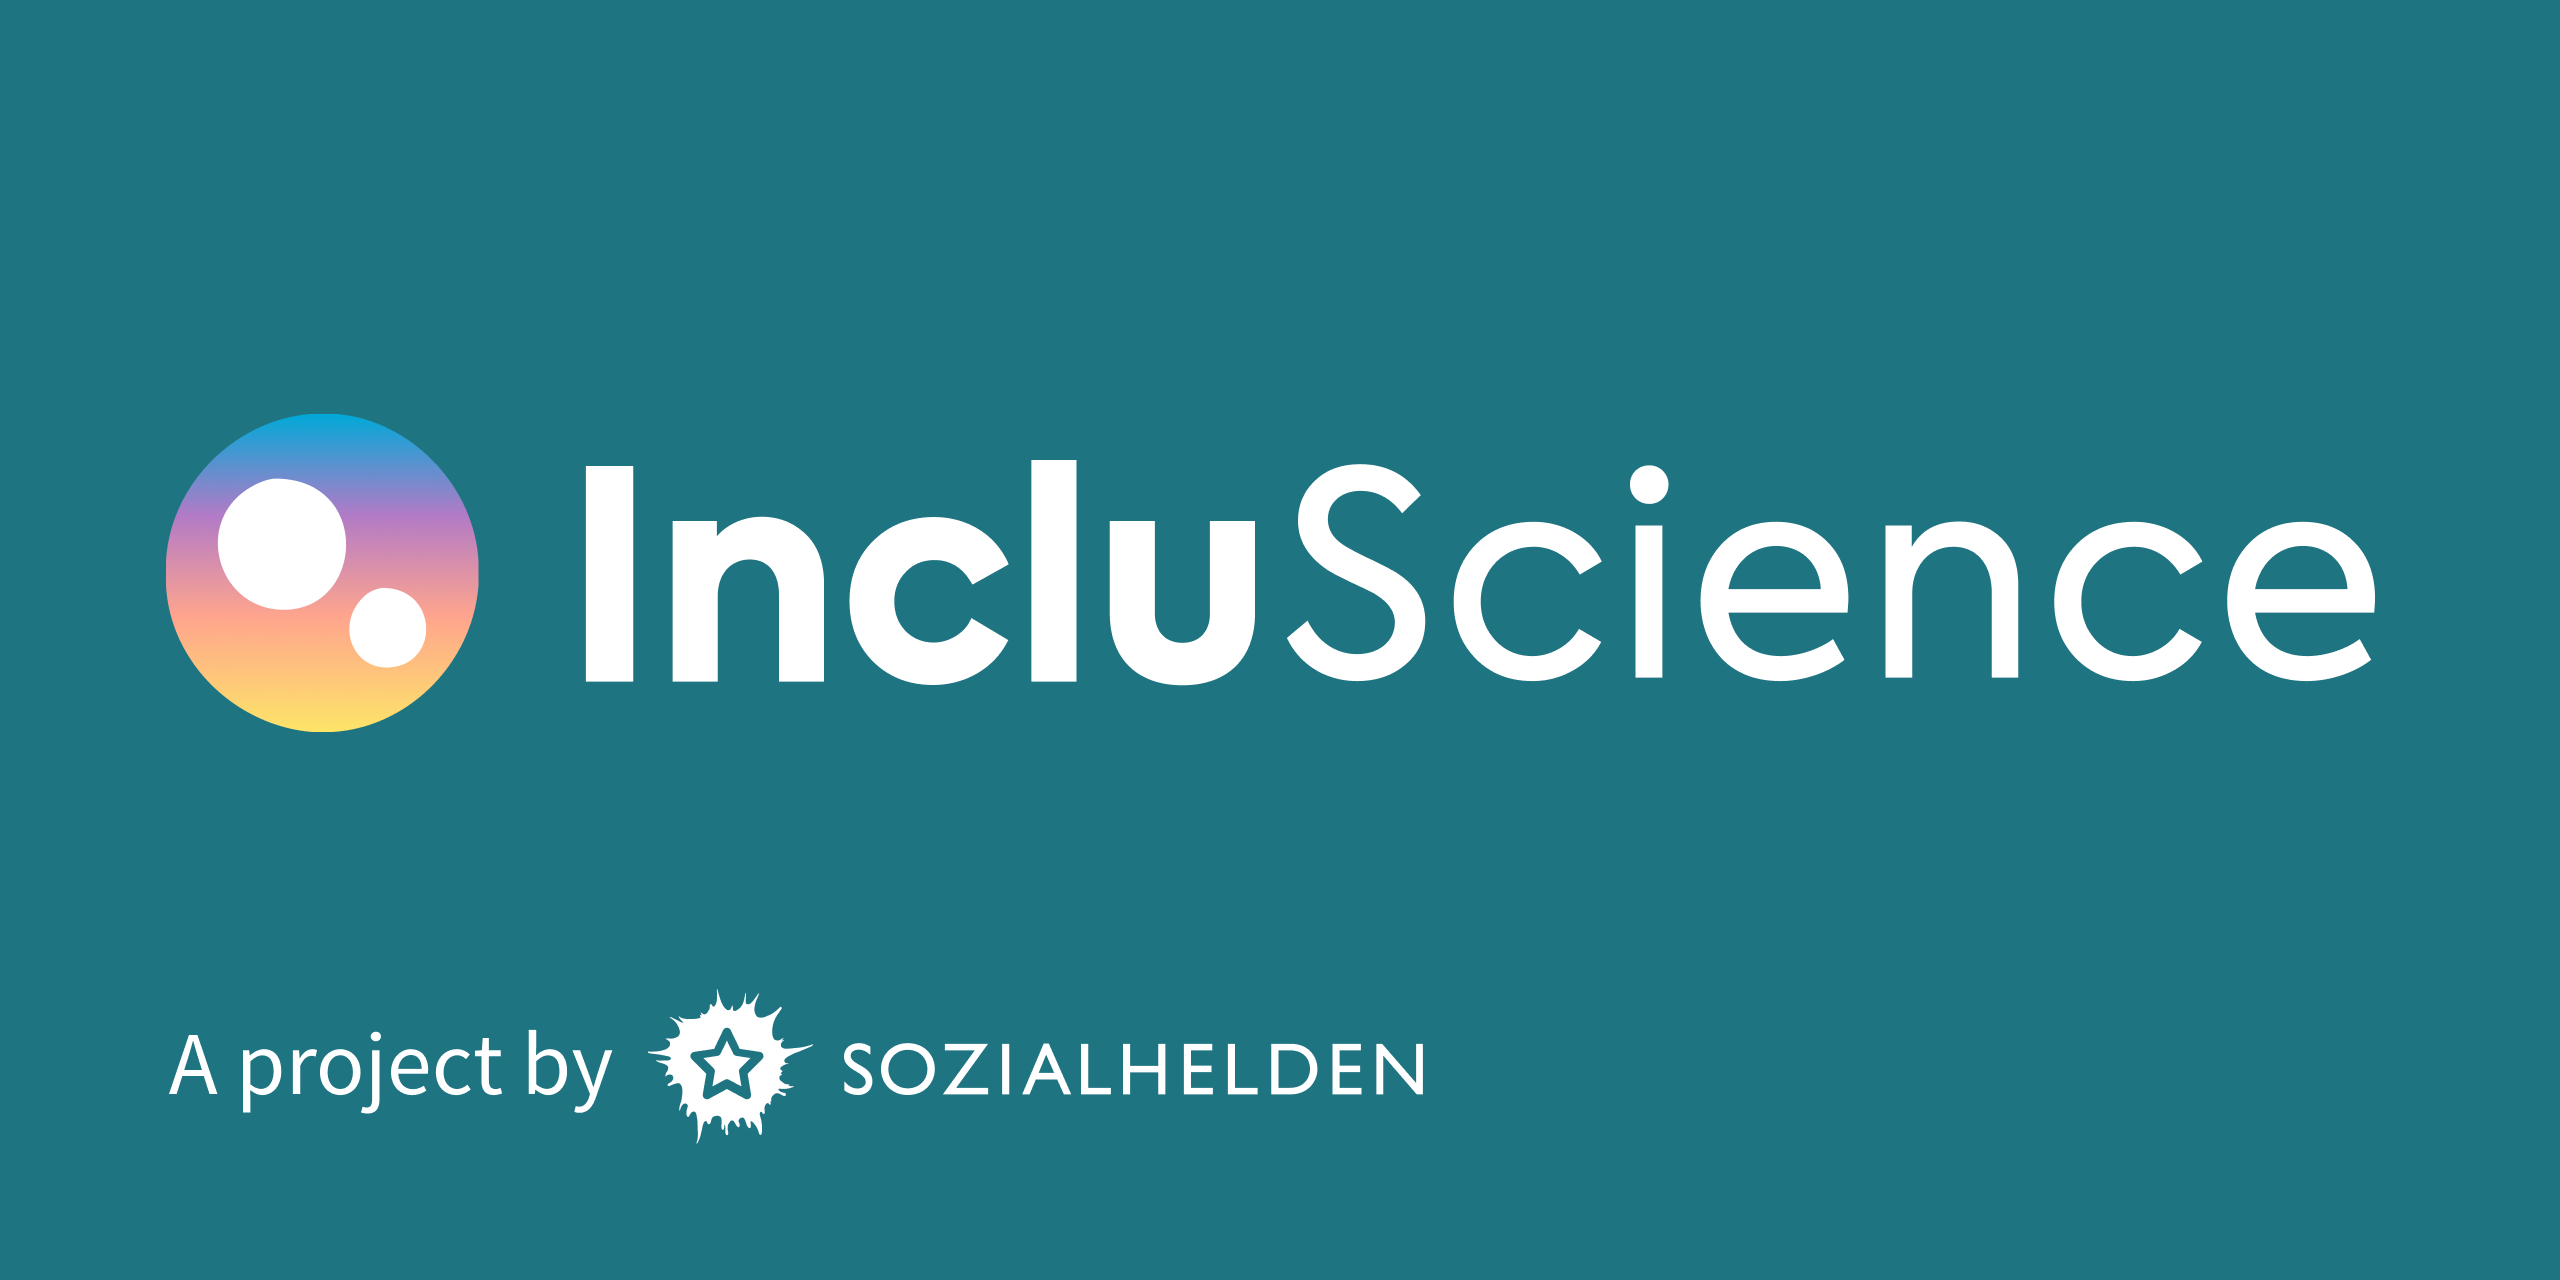
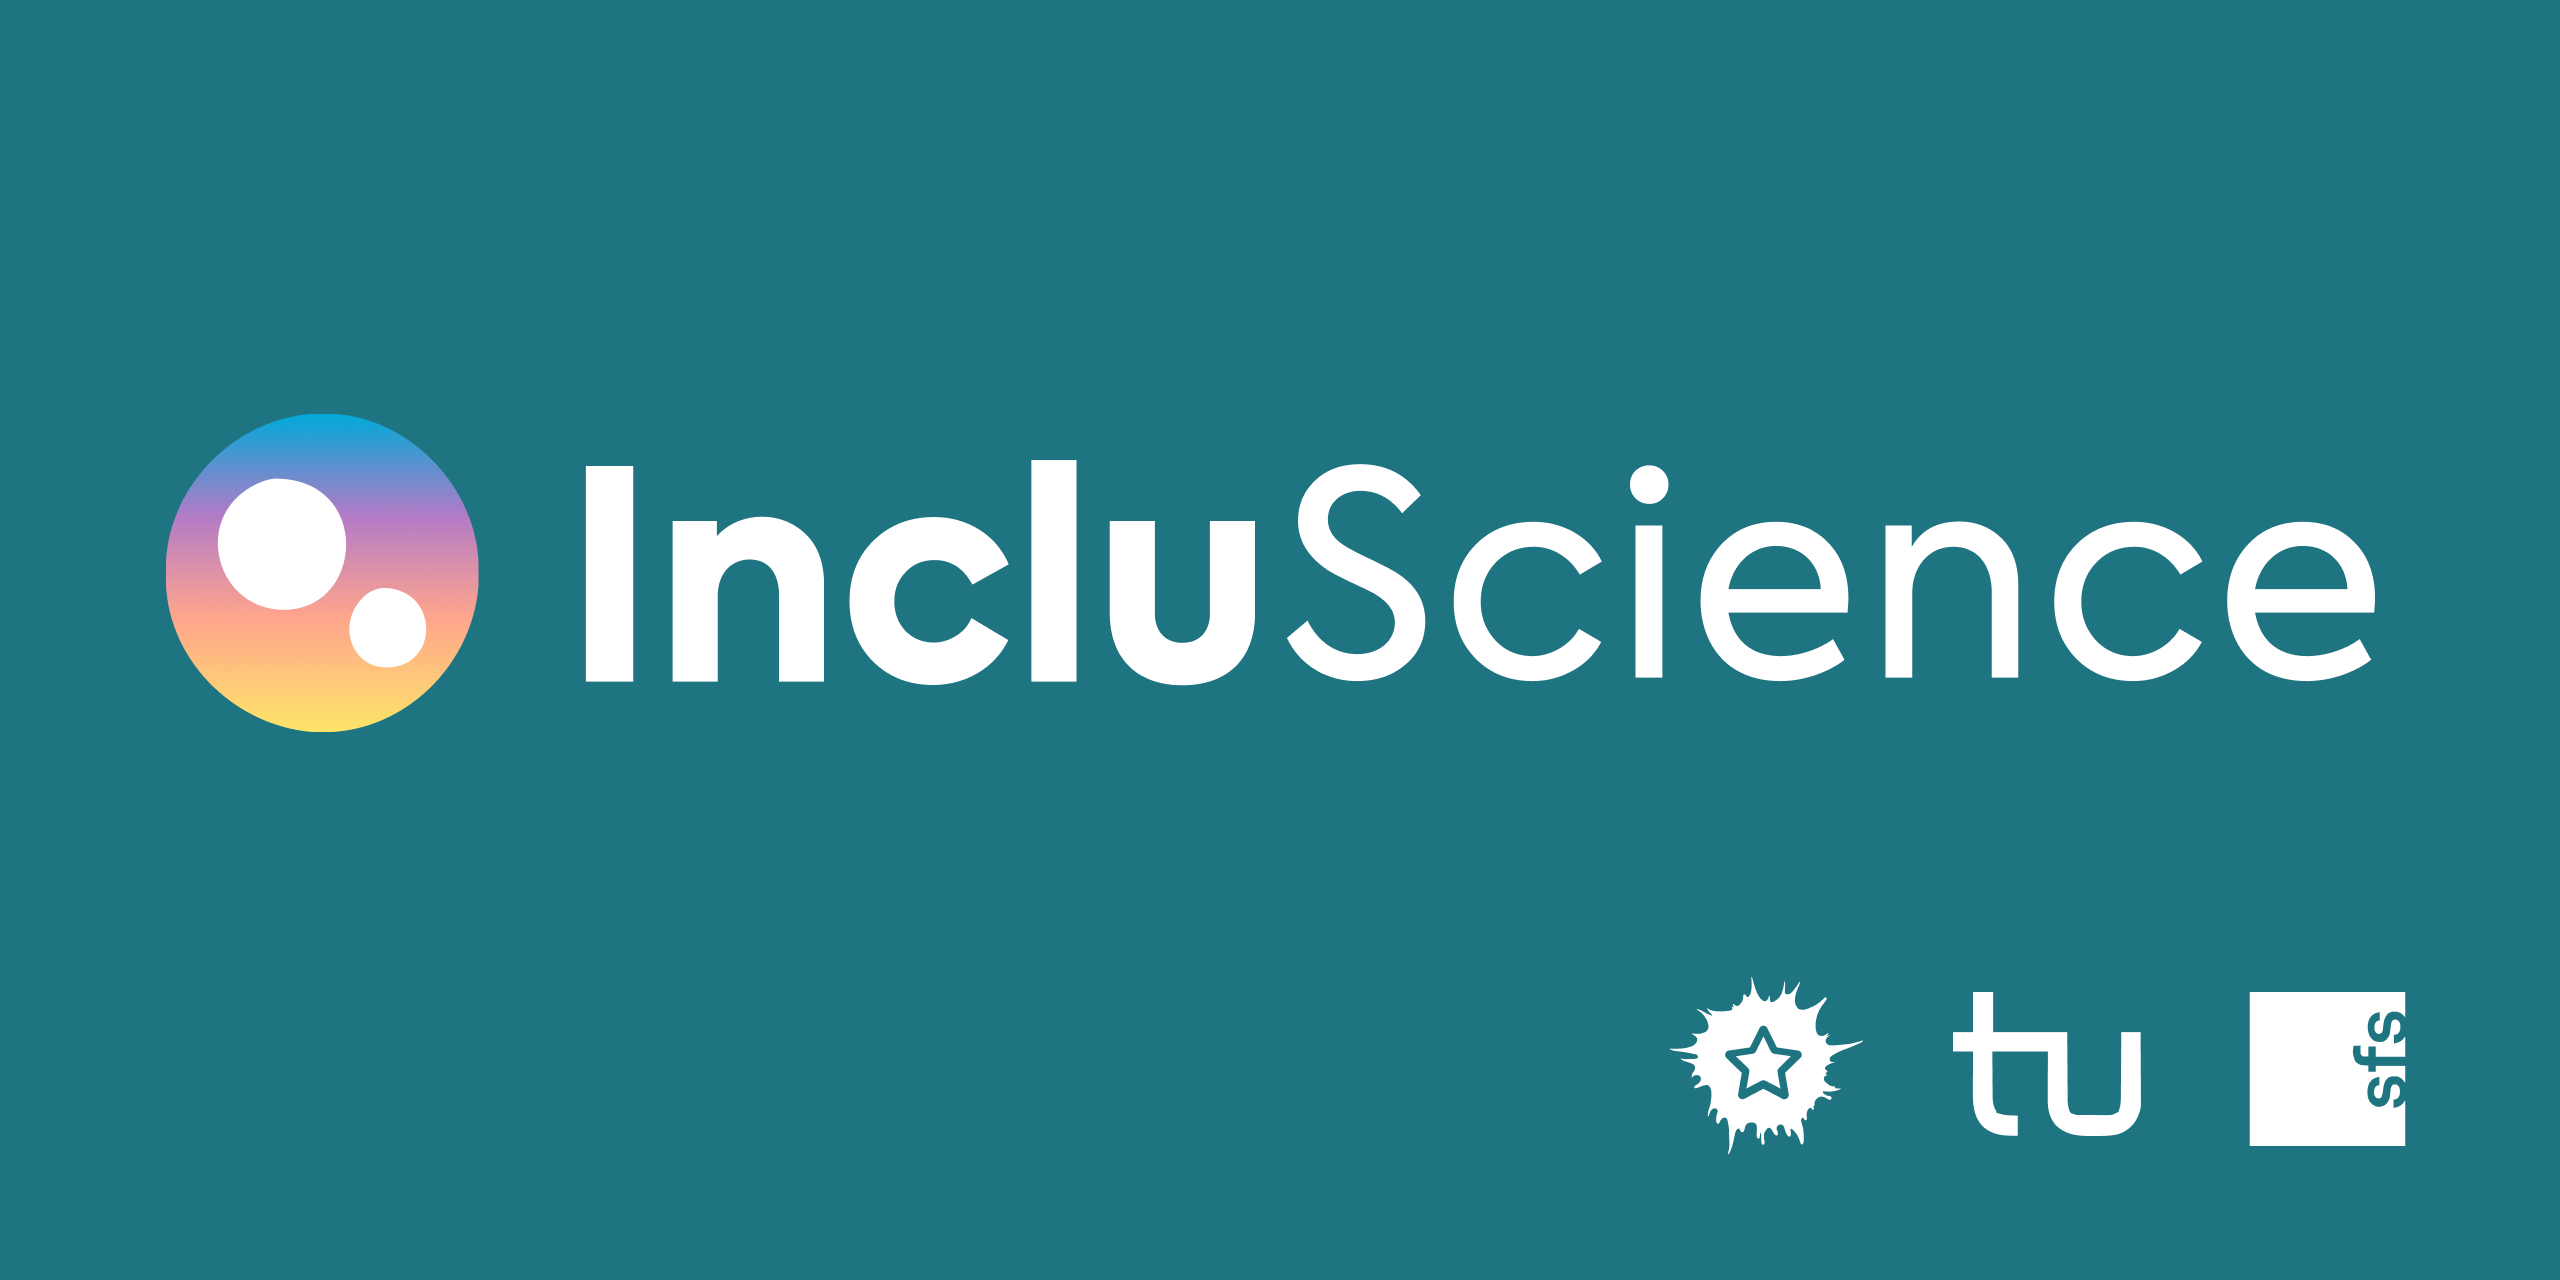
New Sharepic

diff --git a/overrides/main.html b/overrides/main.html
@@ -12,7 +12,7 @@
 {% endif %}
 <meta property="og:description" content="{{ config.site_description }}">
 <meta property="og:type" content="website">
-<meta property="og:image" content="https://repository-images.githubusercontent.com/111114163/180dae00-0b8f-11ea-9470-49871d14b7b9">
+<meta property="og:image" content="https://sozialhelden.github.io/incluscience-toolkit/images/share-pic.png">
 <meta property="og:image:alt" content="Logo of IncluScience, referencing its creator Sozialhelden e.V.">
 <meta property="og:image:type" content="image/jpeg">
 <meta property="og:image:width" content="1280">
@@ -29,7 +29,7 @@
   <meta property="twitter:title" content="{{ config.site_name }}">
 {% endif %}
 <meta name="twitter:description" content="{{ config.site_description }}">
-<meta name="twitter:image" content="https://repository-images.githubusercontent.com/111114163/180dae00-0b8f-11ea-9470-49871d14b7b9">
+<meta name="twitter:image" content="https://sozialhelden.github.io/incluscience-toolkit/images/share-pic.png">
 <meta name="twitter:image:alt" content="Logo of IncluScience, referencing its creator Sozialhelden e.V.">
 
 <link href="https://github.com/sozialhelden/incluscience/commits/master.atom" rel="alternate" title="Recent Commits to incluscience:master" type="application/atom+xml">
